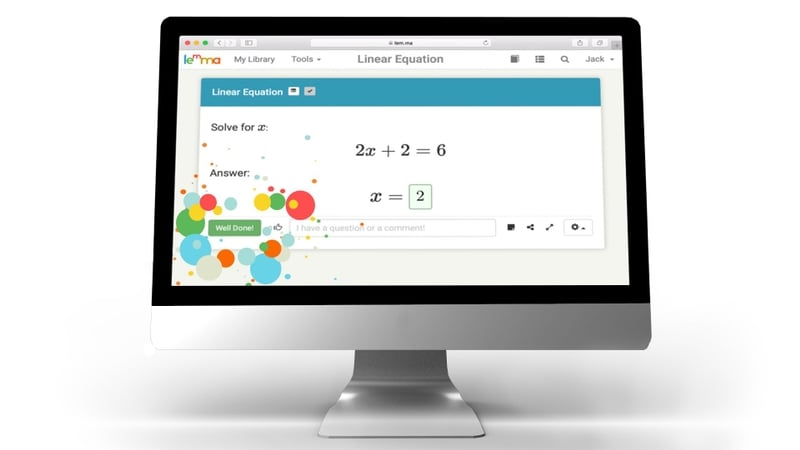
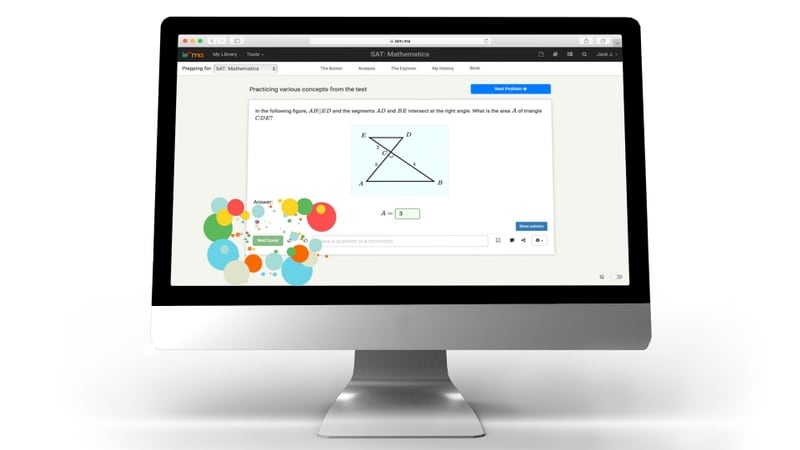
Some changes to prep/partner
responsiveness, prefered organization logos, new hero image (showing button)

Changed region(s): [[0.2188, 0.0622, 0.7812, 0.3111], [0.2188, 0.28, 0.7188, 0.6533], [0.75, 0.5911, 0.7812, 0.6222]]

diff --git a/public/partners.html b/public/partners.html
@@ -73,10 +73,12 @@
     </div>
   </div>
   <div class="partner-section-1 pf" id="pf">
-    <h1 class="partner-heading">Our Partners</h1>
+		<h1 class="partner-heading">Our Partners<br><img class="underline" src="/img/underline.svg" height="20px" width="280px" style="margin-bottom:50px;"></br></h1>
     <div class="w-container">
       <div class="part-row-1 w-row">
-        <div class="partner-column-1 w-col w-col-4"><img src="/img/pf-color.svg" class="partnerimg"></div>
+        <div class="partner-column-1 w-col w-col-4">
+					<a href="https://www.philadelphiafutures.org" target="_blank"><img src="/img/pf-color.svg" class="partnerimg"></a>
+					</div>
         <div class="part-desc-wrap w-col w-col-8">
           <h3 class="partner-name-right">Philadelphia Futures</h3>
           	<p class="paragraph">Animated by a belief in the importance of empowering children, Philadelphia futures has been changing the lives of Philadelphian high schoolers since 1989. The organization focuses on students who are first in their familes to attend college. <br>
@@ -105,16 +107,20 @@
   </div>
   <div class="partner-section-1 lgr" id="lgr">
     <div class="w-container">
-      <div class="phone-part-img"><img src="/img/lgr-colored_1.svg" width="300" class="partnerimg"></div>
+      <div class="phone-part-img">
+				<a href="https://www.letsgetready.org" target="_blank"><img src="/img/lgr-colored_1.svg" width="300" class="partnerimg"></a>
+			</div>
       <div class="part-row-2 w-row">
         <div class="part-desc-wrap w-col w-col-8">
           <h3 class="partner-name-left">Let&#x27;s Get Ready</h3>
           <p class="paragraph">Let&#x27;s Get Ready was founded in 1998 in a church basement in Mount Vernon, New York. In their first year, Let&#x27;s Get Ready had 20 college student volunteers advising, teaching, and befriending 40 high school students. With that success under its belt, Let&#x27;s Get Ready quickly recognized the power of &quot;students helping students&quot; get into college. <br><br>Let&#x27;s Get Ready has recently agreed to partner with Lemma for their upcoming summer cohort. We&#x27;ve agreed to develop digital classrooms for LGR&#x27;s tutors and students to work together and boost their SAT scores. <br><br>Also, our President and COO, Jack Januszewski, tutored with Let&#x27;s Get Ready while an undergraduate at Boston College. He is elated to be working with them again.</p>
           <h4 class="from-them-2">From Let&#x27;s Get Ready&#x27;s Website:</h4>
           <p class="part-desc">Let’s Get Ready provides free SAT preparation, admission counseling, and post-enrollment mentoring to students from low-income backgrounds and first-generation-to-college students to help them get into and graduate from college. Our peer-driven program is administered by volunteer college students, keeping costs low and ensuring outstanding success rates.</p>
-          <div class="partner-button-wrap w-clearfix"><a href="http://letsgetready.org/donate/" target="_blank" class="partner-button w-button">See How You Can Help Let&#x27;s Get Ready!</a><a href="https://lem.ma/blog" target="_blank" class="partner-button-2 w-button">Read More About Our Partnership!</a></div>
+          <div class="partner-button-wrap w-clearfix"><a href="http://letsgetready.org/donate/" target="_blank" class="partner-button w-button">See How You Can Help Let&#x27;s Get Ready!</a><a href="https://lem.ma/blog/announcing-lets-get-ready/" target="_blank" class="partner-button-2 w-button">Read More About Our Partnership!</a></div>
         </div>
-        <div class="partner-column-2 w-col w-col-4"><img src="/img/lgr-colored.svg" class="partnerimg"></div>
+				<div class="partner-column-2 w-col w-col-4">
+					<a href="https://letsgetready.org" target="_blank"><img src="/img/lgr-colored.svg" class="partnerimg"></a>
+				</div>
       </div>
     </div>
     <div class="lemma-ticker w-container">
@@ -135,7 +141,9 @@
   <div class="partner-section-1 nyc" id="nyc">
     <div class="w-container">
       <div class="part-row-1 w-row">
-        <div class="partner-column-1 w-col w-col-4"><img src="/img/nycares-colored.svg" class="partnerimg"></div>
+        <div class="partner-column-1 w-col w-col-4">
+					<a href="https://www.newyorkcares.org" target="_blank"><img src="/img/nycares-colored.svg" class="partnerimg"></a>
+					</div>
         <div class="part-desc-wrap w-col w-col-8">
           <h3 class="partner-name-right">New York Cares</h3>
           <p class="paragraph">New York Cares' mission is to simplify and inspire greater volunteerism in New York City. The organization was founded in 1987 to simplify the process of volunteering in the city that never sleeps. Since then, the organization has grown to partner with over 1,350 nonprofits and schools, and to staff and manage 1,600 volunteer-led projects each month. Last Year alone, they served 400,000 New Yorkers in need. <br><br>Lemma has recently partnered with New York Cares to deliver our high impact content and insightful data analytics platform to a cohort of high school students in the boroughs. We are very excited to help New York Cares achieve its goals!</p>
@@ -162,7 +170,9 @@
   </div>
   <div class="partner-section-1 opp" id="oppnet">
     <div class="w-container">
-      <div class="phone-part-img"><img src="/img/oppnet-colored.svg" width="300" class="partnerimg"></div>
+      <div class="phone-part-img">
+				<a href="https://opportunitynetwork.org" target="_blank"><img src="/img/oppnet-colored.svg" width="300" class="partnerimg"></a>
+			</div>
       <div class="part-row-2 w-row">
         <div class="part-desc-wrap w-col w-col-8">
           <h3 class="partner-name-left">Opportunity Network</h3>
@@ -171,8 +181,9 @@
           <p class="part-desc">The Opportunity Network works with students from historically and systematically underrepresented communities in developing their skills, knowledge, and passions to achieve their college and career goals. We honor the identities and embrace the power of each member of our community.</p>
           <div class="partner-button-wrap w-clearfix"><a href="https://opportunitynetwork.secure.force.com/pmtx/dn8n__SiteDonation?id=a1kA0000000BcTv" target="_blank" class="partner-button w-button">See How You Can Help Opportunity Network!</a><a href="https://lem.ma/blog/announcement-oppnet" target="_blank" class="partner-button-2 w-button">Read More About Our Partnership!</a></div>
         </div>
-        <div class="partner-column-2 w-col w-col-4"><img src="/img/oppnet-colored.svg" class="partnerimg"></div>
-      </div>
+        <div class="partner-column-2 w-col w-col-4">
+						<a href="https://opportunitynetwork.org" target="_blank"><img src="/img/official-OppNet-logo.svg" width="300" class="partnerimg"></a>
+					</div>
     </div>
     <div class="lemma-ticker w-container">
       <div class="text-block">THIS IS OUR LEMMA TICKER </div>

diff --git a/public/css/partners.css b/public/css/partners.css
@@ -41,12 +41,13 @@
   -webkit-flex: 0 auto;
   -ms-flex: 0 auto;
   flex: 0 auto;
+  transition: .5s; 
 }
 
 .partnerimg:hover {
-  -webkit-transform: scale(1.01);
-  -ms-transform: scale(1.01);
-  transform: scale(1.01);
+  -webkit-transform: scale(1.05);
+  -ms-transform: scale(1.05);
+  transform: scale(1.05);
 
 }
 
@@ -74,7 +75,7 @@
 
 .partner-heading {
   margin-top: 0px;
-  margin-bottom: 50px;
+  margin-bottom: 20px;
   font-weight: 300;
   text-align: center;
   letter-spacing: 2px;
@@ -116,6 +117,14 @@
   margin-top: 0px;
   margin-bottom: 20px;
   text-align: right;
+  text-decoration: underline;
+}
+
+.partner-name-left {
+  margin-top: 0px; 
+  margin-bottom: 20px; 
+  text-align: left; 
+  text-decoration: underline;
 }
 
 .paragraph {
@@ -183,40 +192,18 @@
   background-size: cover;
 }
 
-.lgr-swap:hover {
-  -webkit-transform: none;
-  -ms-transform: none;
-  transform: none;
-}
-
 .pf-swap {
   background-image: url('/img/pf-greyscale.svg');
   background-position: 0px 0px;
   background-size: cover;
 }
-
-.pf-swap:hover {
-  -webkit-transform: scale(1.1);
-  -ms-transform: scale(1.1);
-  transform: scale(1.1);
-}
-
 .nycares-swap {
   background-image: url('/img/nycares-greyscale.svg');
   background-position: 0px 0px;
   background-size: cover;
-  -webkit-transform: scale(1.1);
-  -ms-transform: scale(1.1);
-  transform: scale(1.1);
 }
 
 .opp-swap {
-  background-image: url('/img/oppnet-greyscale.svg');
-  background-position: 0px 0px;
-  background-size: cover;
-}
-
-.opp-swap:hover {
   background-image: url('/img/oppnet-greyscale.svg');
   background-position: 0px 0px;
   background-size: cover;
@@ -362,9 +349,6 @@
   transform: 300ms;
 
 }
-.lemdif-img:hover {
-  transform: scaleX(1.02) scaleY(1.02);
-}
 
 .lemdif-img.partners {
   margin-right: auto;
@@ -378,6 +362,7 @@
   font-size: 24px;
   font-weight: 300;
   font-weight: bold;
+  padding-left: 20px;
 }
 
 .diftext {
@@ -552,6 +537,7 @@
 
 .tutorial-link {
   text-align: center;
+  padding-left: 40px; 
 }
 nav-link {
 	border: 4px solid transparent;
@@ -594,17 +580,26 @@ nav-link {
     margin-bottom: 30px;
   }
   .hero-button {
-    margin-bottom: 60px;
-    padding: 10px 40px;
+    margin-bottom: 30px;
     text-align: center;
   }
   .partner-button {
     padding: 20px 5px;
-    font-size: 12px;
+    font-size: 16px;
     text-align: center;
+  }
+  .partner-button-2 {
+    margin-left: 20px; 
+    font-size: 16px; 
+    text-align: center;
+    padding: 20px 5px; 
   }
   .lemdif-img {
     text-align: center;
+    margin-left: 0px;
+    box-shadow: none;
+    padding-top: 10px; 
+    padding-bottom: 10px; 
   }
   .difrow {
     -webkit-box-pack: start;
@@ -619,7 +614,7 @@ nav-link {
     padding-left: 20px;
   }
   .hero-tag {
-    margin-top: 159px;
+    margin-top: 240px; 
   }
   .hero-desc {
     margin-top: 20px;
@@ -718,8 +713,8 @@ nav-link {
     margin-bottom: 20px;
   }
   .icons-wrap {
-    padding-right: 30px;
-    padding-left: 30px;
+    padding-right: 20px;
+    padding-left: 20px;
     -webkit-box-orient: horizontal;
     -webkit-box-direction: normal;
     -webkit-flex-direction: row;
@@ -769,8 +764,12 @@ nav-link {
     padding-top: 0px;
     padding-bottom: 0px;
   }
+  .button-wrap {
+    padding-bottom: 20px; 
+  }
   .hero-button {
-    display: inline-block;
+    width: auto; 
+    display: block;
   }
   .from-them-1 {
     text-align: left;
@@ -781,9 +780,15 @@ nav-link {
   .partner-button {
     margin-top: 10px;
     margin-bottom: 10px;
-    padding-right: 0px;
-    padding-left: 0px;
-    font-size: 12px;
+    padding: 20px 5px; 
+    font-size: 18px;
+  }
+  .partner-button-2 {
+    margin-left: 0px; 
+    font-size: 18px; 
+    text-align: center;
+    padding: 20px 5px; 
+    width: auto; 
   }
   .partner-button-wrap {
     -webkit-box-orient: vertical;
@@ -829,14 +834,10 @@ nav-link {
     -ms-flex-direction: column;
     flex-direction: column;
   }
-  .contact-us-button {
-    display: inline-block;
-    margin-top: 20px;
-    padding-right: 80px;
-    padding-left: 80px;
-    float: none;
-    font-size: 22px;
-    text-align: left;
+  .contact-us-button { 
+    width: 100%; 
+    padding: 20px 5px; 
+    margin-right: 0px; 
   }
   .call {
     text-align: center;

diff --git a/public/prep.html b/public/prep.html
@@ -27,7 +27,13 @@
 <body class="body">
 	<div data-collapse="medium" data-animation="default" data-duration="400" class="navbar w-nav">
 		<div class="container w-container"><a href="#" class="w-nav-brand"><img src="/img/lemma1920x700.png" width="130" srcset="/img/lemma1920x700-p-500.png 500w, /img/lemma1920x700-p-800.png 800w, /img/lemma1920x700-p-1080.png 1080w, /img/lemma1920x700-p-1600.png 1600w, /img/lemma1920x700.png 1920w" sizes="(max-width: 479px) 93vw, 168px" class="image-17"></a>
-			<nav role="navigation" class="nav-menu w-nav-menu"><a href="#Lemma-Difference" class="nav-link about w-nav-link">About</a><a href="/home/team" class="nav-link teamlink w-nav-link">Team</a><a href="/daily" target="_blank" class="nav-link pod w-nav-link">Problem of the Day</a><a href="/blog" target="_blank" class="nav-link blog w-nav-link">Blog</a><a href="/books/ByrW8zXlGAhREdPsLb_cPA/checkout?refe=%2Ftesting%2Fsat" class="nav-link login w-nav-link">Login</a></nav>
+				<nav role="navigation" class="nav-menu w-nav-menu">
+					<a href="#Lemma-Difference" class="nav-link about w-nav-link">About</a>
+					<a href="/home/team" class="nav-link teamlink w-nav-link">Team</a>
+					<a href="/tracks/sat-math/daily" target="_blank" class="nav-link pod w-nav-link">Problem of the Day</a>
+					<a href="/blog" target="_blank" class="nav-link blog w-nav-link">Blog</a>
+					<a href="/books/ByrW8zXlGAhREdPsLb_cPA/checkout?refe=%2Ftesting%2Fsat" class="nav-link login w-nav-link">Login</a>
+				</nav>
 			<div class="w-nav-button">
 				<div class="w-icon-nav-menu"></div>
 			</div>
@@ -37,10 +43,10 @@
 		<div class="w-container">
 			<div class="w-row">
 				<div class="w-col w-col-3">
-					<a href="/blog/announcing-lets-get-ready/" class="announcement-button w-button">Announcement</a>
+					<a href="/blog" class="announcement-button w-button">Announcement</a>
 				</div>
 				<div class="w-col w-col-9">
-					<div class="announcement-text">Lemma partners with Let&#x27;s Get Ready to help better prepare students for college!</div>
+					<div class="announcement-text">Lemma releases a free Calculus resource for students and educators!</div>
 				</div>
 			</div>
 		</div>
@@ -104,7 +110,7 @@
 	</div>
 	<div data-w-id="1a11049b-3c92-126a-dd13-a1e16d1872c8" style="opacity:0" class="call-banner">
 		<div class="w-container">
-			<div class="call-2">Learn how Lemma can help change your students&#x27; lives</div><a href="/blog/announcing-lets-get-ready/" class="button-6 w-button">Partner with us!</a>
+			<div class="call-2">Lemma partners with great organizations to change their students' lives</div><a href="/partners" class="button-6 w-button">Learn More!</a>
 		</div>
 	</div>
 	<div data-w-id="a4d2c0b6-9b5e-f9d6-e322-1b3fd50bde31" style="opacity:0" class="section-11">

diff --git a/public/css/prep.css b/public/css/prep.css
@@ -187,7 +187,7 @@ body {
 	padding-bottom: 0px;
 	float: left;
 	color: #fff;
-	font-size: 24px;
+	font-size: 20px;
 	font-weight: 300;
 	text-align: center;
 	text-shadow: 1px 1px 10px #000000;
@@ -250,8 +250,8 @@ body {
 .partner-image {
 	height: 200px;
 	width: 200px;
-	padding-left: 20px;
-	padding-right: 20px;
+	padding-left: 30px;
+	padding-right: 30px;
 }
 
 .heading-17 {
@@ -639,6 +639,7 @@ body {
 	.call-2 {
 		float: none;
 		margin-bottom: 20px;
+		font-size: 22px;
 	}
 	.button-6 {
 		display: block;
